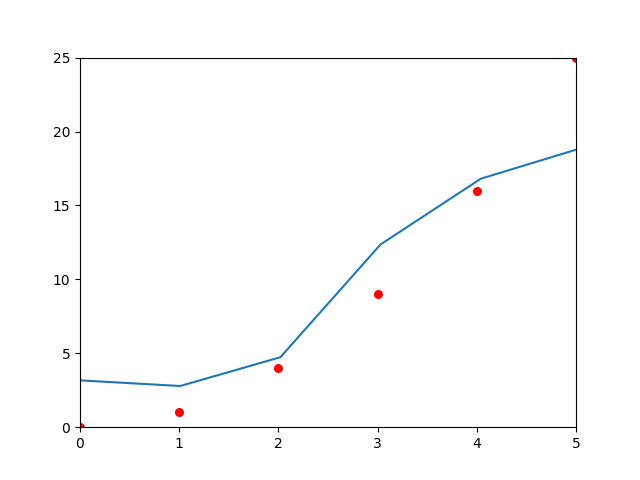
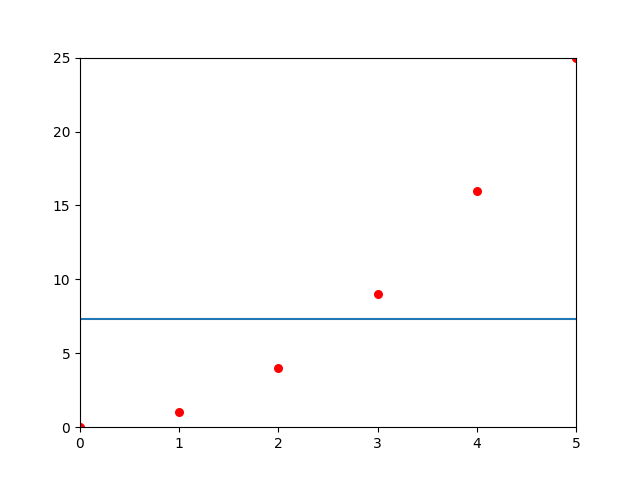
changes to jolenet/optim.py and square.py

diff --git a/PARTE2/joelnet/optim.py b/PARTE2/joelnet/optim.py
@@ -18,17 +18,9 @@ class SGD(Optimizer):
         self.lr = lr
 
     def step(self, net: NeuralNet) -> None:
-        # print('\n\n\n\n\n\n\n')
-        # for param, grad in net.params_and_grads():
-        #     print(f'param: {param} \ngrad: {grad}')
-        # print('\n\n\n\n\n\n\n')
         for param, grad in net.params_and_grads():
             param -= self.lr *grad
 
-            # try:
-            #     param -= self.lr *grad
-            # except ValueError: 
-            #     param -= self.lr *grad[0]
             
 
 class RMSProp(Optimizer):
@@ -42,7 +34,7 @@ class RMSProp(Optimizer):
 
         i = 0
         for param, grad in net.params_and_grads():
-            #try:
+
             G_temp = self.gamma*self.G[i] + (1-self.gamma)*(grad**2)
             param -= (self.lr/(np.sqrt(G_temp + self.epsilon)))*grad
             # except ValueError:
@@ -220,33 +212,62 @@ class LM_cond (Optimizer):
 class GD_cond(Optimizer):
     def __init__(self, lr: float = 0.001) -> None:
         self.lr = lr
-        self.alpha = 1e3
+        self.alpha = 1e-1
 
     def step(self, net: NeuralNet) -> None:
         for param, grad in net.params_and_grads():
 
             predicted = net.forward(net.curr_batch.inputs)
             loss_old = net.loss_f.loss(predicted, net.curr_batch.targets)
-            
             old_param = copy.deepcopy(param)
-            
             param -= self.lr *grad
-            count = 0
-            
+
 
             predicted = net.forward(net.curr_batch.inputs)
             loss = net.loss_f.loss(predicted, net.curr_batch.targets)
-            print(f'\nloss: {loss} \nloss_anterior: {loss_old}\ntermo subtraido:{self.alpha*(np.linalg.norm(param - old_param))**2}\nvalor_esperado: {loss_old - self.alpha*(np.linalg.norm(param - old_param))**2}')
-            while not loss <= loss_old - self.alpha*(np.linalg.norm(param - old_param))**2:
-                print('Não passou')
-                print(f'\nloss: {loss} \nloss_anterior: {loss_old}\ntermo subtraido:{self.alpha*(np.linalg.norm(param - old_param))**2}\nvalor_esperado: {loss_old - self.alpha*(np.linalg.norm(param - old_param))**2}')
+
+            print(f'lr: {self.lr}')
+
+            suf = loss_old - self.alpha*(np.linalg.norm(param - old_param))**2
+            while not loss <= suf :
                 self.lr = self.lr / 2.0
                 param = old_param - self.lr *grad
+                print(f'\nPARAM: {param}\n')
 
-                if count > 10:
-                    break
-
-                count = count + 1
-            print('PASSEI')
+                predicted = net.forward(net.curr_batch.inputs)
+                loss = net.loss_f.loss(predicted, net.curr_batch.targets)
+                print(f'\nloss: {loss}\nloss_desejada: {loss_old - self.alpha*(np.linalg.norm(param - old_param))**2}')
 
 
+
+    # def step(self, net: NeuralNet) -> None:
+    #     for param, grad in net.params_and_grads():
+
+    #         # predicted = net.forward(net.curr_batch.inputs)
+    #         # loss_old = net.loss_f.loss(predicted, net.curr_batch.targets)
+            
+    #         # old_param = copy.deepcopy(param)
+    #         param -= self.lr *grad
+    #         count = 0
+            
+
+    #         # predicted = net.forward(net.curr_batch.inputs)
+    #         # loss = net.loss_f.loss(predicted, net.curr_batch.targets)
+
+    #         #print(f'\nloss: {loss} \nloss_anterior: {loss_old}\ntermo subtraido:{self.alpha*(np.linalg.norm(param - old_param))**2}\nvalor_esperado: {loss_old - self.alpha*(np.linalg.norm(param - old_param))**2}')
+            
+    #         # while not loss <= loss_old - self.alpha*(np.linalg.norm(param - old_param))**2:
+    #         #     print('Não passou')
+    #         #     print(f'\nloss: {loss} \nloss_anterior: {loss_old}\ntermo subtraido:{self.alpha*(np.linalg.norm(param - old_param))**2}\nvalor_esperado: {loss_old - self.alpha*(np.linalg.norm(param - old_param))**2}')
+    #         #     self.lr = self.lr / 2.0
+    #         #     param = old_param - self.lr *grad
+
+    #         #     if count > 10:
+    #         #         break
+
+    #         #     count = count + 1
+    #         print('PASSEI')
+
+
+
+            

diff --git a/PARTE2/square.py b/PARTE2/square.py
@@ -45,10 +45,10 @@ net = NeuralNet([
 ])
 
 
-n_epochs = 100
+n_epochs = 10
 
 #loss_list = train(net, inputs,targets, optimizer = Adam(lr = 1e-2, gamma1 = 0.3, gamma2 = 0.3),iterator = BatchIterator(batch_size = 5), num_epochs = 1000)
-loss_list = train(net, inputs,targets, loss = MSE() ,optimizer = GD_cond(1e-4),iterator = BatchIterator(batch_size =  5, shuffle = False), num_epochs = n_epochs)
+loss_list = train(net, inputs,targets, loss = MSE() ,optimizer = GD_cond(1e-2),iterator = BatchIterator(batch_size =  5, shuffle = False), num_epochs = n_epochs)
 
 
 
@@ -76,3 +76,5 @@ plt.scatter(aux,aux**2,s = 30, c = "red")
 plt.plot(ex,ey)
 plt.savefig(f'Figuras/Square/EQ.png', format='png')
 plt.show()
+
+			
